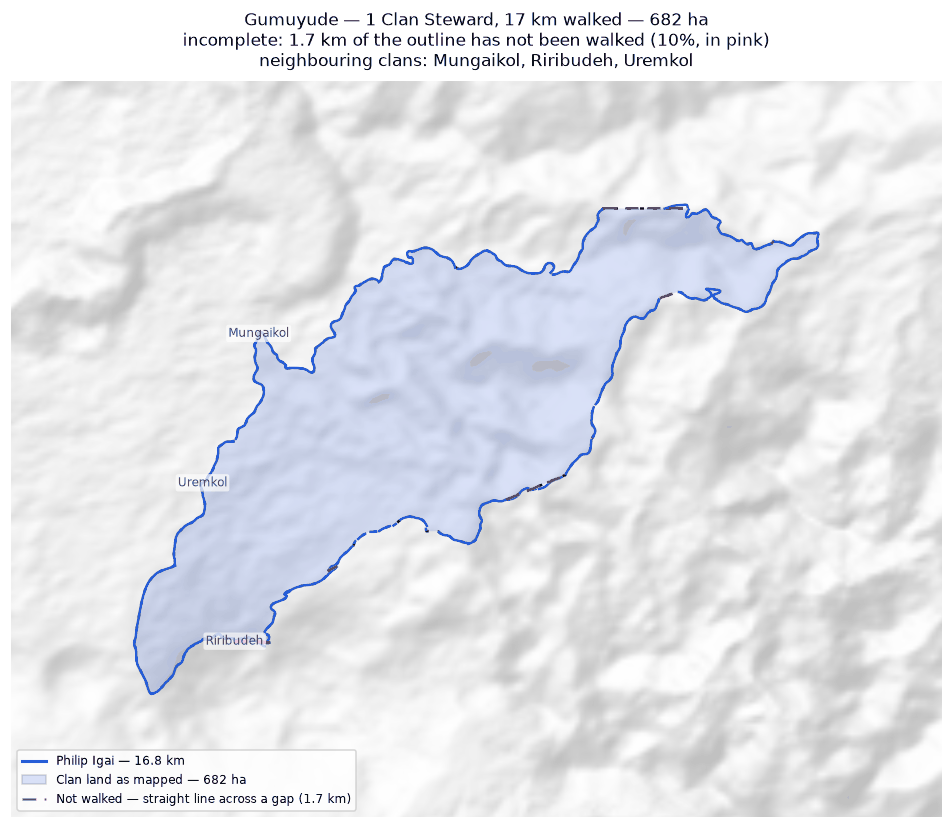
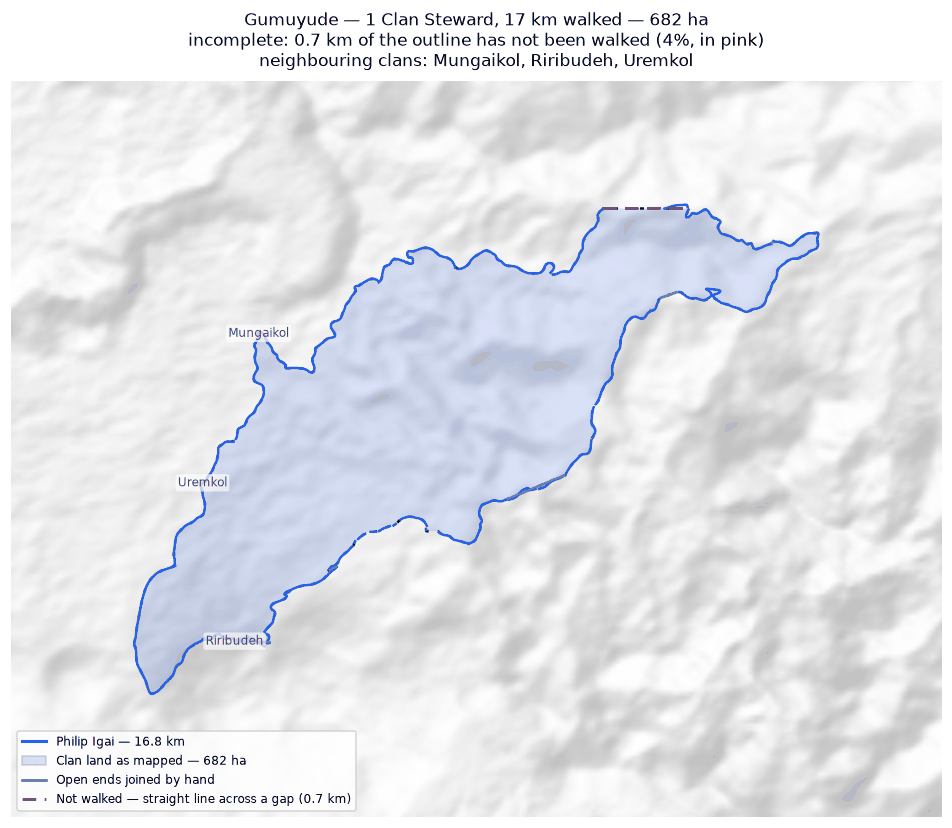
Close Gumuyude's five short chords; keep chord numbers stable between runs
The five short lines are straight joins between recorded open ends on walked
boundary — 483, 273, 144, 75 and 26 m. Closed on the survey team's judgement,
not the clan's, and the note on each says so. Adopting them changed nothing
else: 682 ha unchanged, no new line anywhere, walked line outside still
0.01 km. One real gap left, the 652 m on the northern shoulder.

Numbering is now kept in data/reference/chord_numbers.json. A chord
discussed as number 3 is still number 3 next time, a chord that has been
closed drops off the list, and anything newly drawn takes the next free
number. Matched on where a line is rather than how long it is or where it
falls in the order, since a fix next door changes both. Renumbering from the
top each run made the previous conversation useless.

Claude-Session: https://claude.ai/code/session_01K6X75MkuiGQ9rmgDZx45vk

Changed region(s): [[0.0, 0.8756, 0.3046, 0.9662], [0.1828, 0.0302, 0.8225, 0.0604], [0.5483, 0.5737, 0.5788, 0.6039]]

diff --git a/scripts/chord_map.py b/scripts/chord_map.py
@@ -51,6 +51,61 @@ import terrain  # noqa: E402
 GAP = "#db2777"
 TIE = "#15803d"
 
+# Numbers have to survive a fix. A chord discussed as "number 3" is still
+# number 3 next time, a chord that has been closed simply disappears from the
+# list, and anything newly drawn takes the next free number. Renumbering from
+# the top each run makes the previous conversation useless.
+REGISTER = dataio.REPO_ROOT / "data" / "reference" / "chord_numbers.json"
+
+
+def numbering(unit: str, bridges: list) -> dict:
+    """Stable numbers for this clan's drawn lines, kept between runs.
+
+    Matched on where a line is, not on how long it is or where it sits in the
+    order: a fix next door can change both. A line within 100 m of one seen
+    before, by Hausdorff distance, is taken to be that line.
+    """
+    import json
+
+    book = {}
+    if REGISTER.exists():
+        try:
+            book = json.loads(REGISTER.read_text(encoding="utf-8"))
+        except Exception:
+            book = {}
+    seen = book.get(unit, {})
+
+    from shapely import wkt
+    known = {}
+    for number, text in seen.items():
+        try:
+            known[int(number)] = wkt.loads(text)
+        except Exception:
+            continue
+
+    out, taken = {}, set()
+    for index, line in enumerate(bridges):
+        match = None
+        for number, old in known.items():
+            if number in taken:
+                continue
+            if old.hausdorff_distance(line) < 100:
+                match = number
+                break
+        if match is not None:
+            out[index] = match
+            taken.add(match)
+    nxt = max(list(known) + [0]) + 1
+    for index in range(len(bridges)):
+        if index not in out:
+            out[index] = nxt
+            nxt += 1
+
+    book[unit] = {str(out[i]): bridges[i].wkt for i in range(len(bridges))}
+    REGISTER.parent.mkdir(parents=True, exist_ok=True)
+    REGISTER.write_text(json.dumps(book, indent=1) + "\n", encoding="utf-8")
+    return out
+
 
 def parts_of(frame: gpd.GeoDataFrame) -> list:
     out = []
@@ -61,12 +116,15 @@ def parts_of(frame: gpd.GeoDataFrame) -> list:
     return [p for p in out if p.length > 0]
 
 
-def classify(bridges: list, walked, tolerance: float, cut: float):
+def classify(unit: str, bridges: list, walked, tolerance: float,
+             cut: float):
     """Each drawn line, with how much of it already has walked line beside it."""
+    ordered = sorted(bridges, key=lambda b: -b.length)
+    numbers = numbering(unit, ordered)
     rows = []
-    for number, line in enumerate(sorted(bridges, key=lambda b: -b.length), 1):
+    for index, line in enumerate(ordered):
         near = line.intersection(walked.buffer(tolerance)).length / line.length
-        rows.append({"n": number, "line": line, "share": near * 100,
+        rows.append({"n": numbers[index], "line": line, "share": near * 100,
                      "kind": "gap" if near < cut else "tie"})
     return rows
 
@@ -182,7 +240,7 @@ def main(argv: list[str] | None = None) -> int:
         return 0
 
     walked = unary_union(parts_of(group))
-    rows = classify(bridges, walked, args.tolerance, args.cut)
+    rows = classify(unit, bridges, walked, args.tolerance, args.cut)
     out = args.out or (dataio.OUT_DIR / "queries"
                        / f"{dataio.safe_name(unit)}_chords.png")
     render(unit, group, built, rows, derived, out, args.tolerance)
